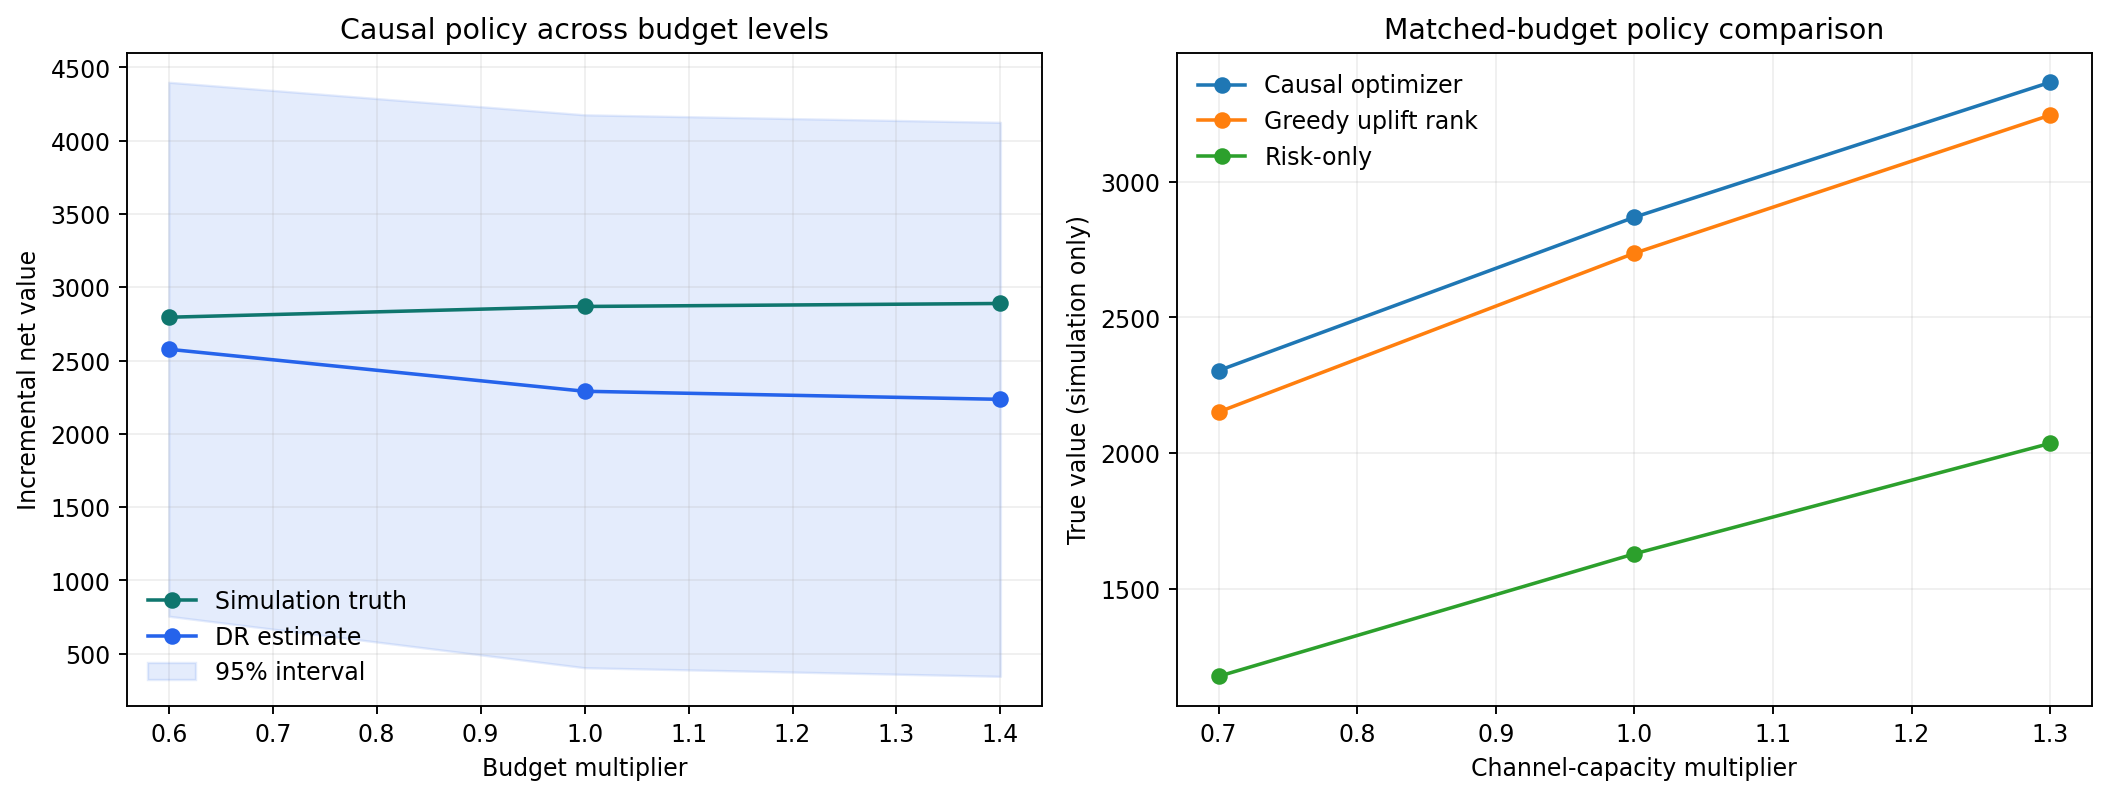
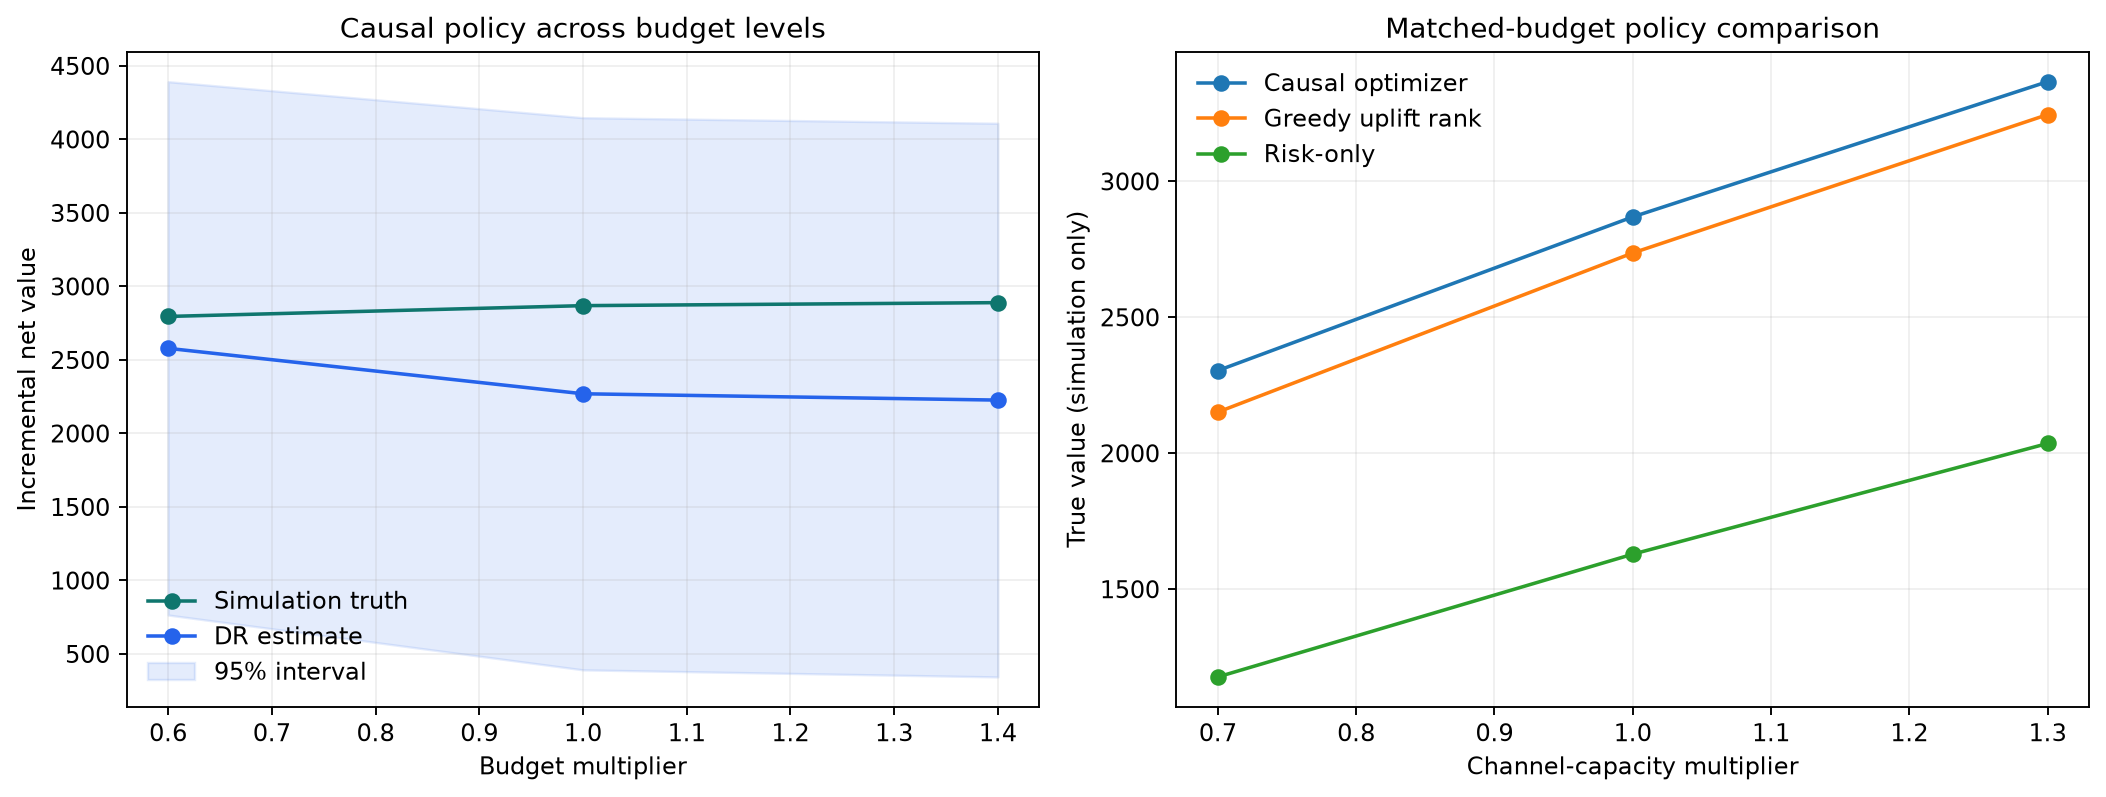
Pin reproducible retention evidence runs

diff --git a/tests/test_pipeline.py b/tests/test_pipeline.py
@@ -35,6 +35,15 @@ class PipelineTests(unittest.TestCase):
             self.assertTrue((root / "reports" / "figures" / "qini_curves.png").exists())
             self.assertTrue((root / "data" / "sample" / "synthetic_policy_sample.csv").exists())
 
+            with tempfile.TemporaryDirectory() as second_directory:
+                second_root = Path(second_directory)
+                second_metrics = run_pipeline(second_root, config)
+                self.assertEqual(metrics, second_metrics)
+                self.assertEqual(
+                    (root / "reports" / "model_comparison.csv").read_bytes(),
+                    (second_root / "reports" / "model_comparison.csv").read_bytes(),
+                )
+
 
 if __name__ == "__main__":
     unittest.main()

diff --git a/src/retention_uplift/cli.py b/src/retention_uplift/cli.py
@@ -15,7 +15,12 @@ def build_parser() -> argparse.ArgumentParser:
     parser = argparse.ArgumentParser(
         description="Run the synthetic retention pipeline or external Criteo validation."
     )
-    parser.add_argument("--project-root", type=Path, default=Path.cwd())
+    parser.add_argument(
+        "--project-root",
+        type=Path,
+        default=Path("local-runs/latest"),
+        help="Output root; defaults to an ignored local-run directory.",
+    )
     parser.add_argument("--customers", type=int, default=None)
     parser.add_argument("--seed", type=int, default=42)
     parser.add_argument(

diff --git a/scripts/check_sensitive.py b/scripts/check_sensitive.py
@@ -7,7 +7,7 @@ from pathlib import Path
 
 ROOT = Path(__file__).resolve().parents[1]
 TEXT_SUFFIXES = {".csv", ".json", ".md", ".py", ".toml", ".txt", ".yml", ".yaml"}
-EXCLUDED_PARTS = {".git", ".venv", "__pycache__", "generated"}
+EXCLUDED_PARTS = {".git", ".venv", "__pycache__", "generated", "local-runs"}
 EXCLUDED_FILES = {Path(__file__).resolve()}
 
 SENSITIVE_PATTERNS = {

diff --git a/README.md b/README.md
@@ -40,7 +40,7 @@ See the [external run summary](reports/external_validation/run_summary.md),
 |---|---|
 | **Who** | 727 of 2,943 test customers receive an active treatment after value and operating constraints are applied; 2,216 receive no treatment. |
 | **Which action** | 647 reminders, 56 vouchers, and 24 service calls. |
-| **Net value** | Doubly robust estimate: **2,291** with a **95% CI of 405 to 4,177**; simulation truth: **2,870**, or **76.2% above risk-only targeting**. |
+| **Net value** | Doubly robust estimate: **2,270** with a **95% CI of 392 to 4,148**; simulation truth: **2,870**, or **76.2% above risk-only targeting**. |
 
 The interval is positive but wide, so the estimate does not support automatic deployment. The
 candidate policy requires a prospective randomized test with the same cost and capacity rules.
@@ -51,12 +51,13 @@ candidate policy requires a prospective randomized test with the same cost and c
 
 ```bash
 python -m pip install -e ".[dev]"
-retention-uplift --project-root .
+retention-uplift --project-root local-runs/latest
 make check
 ```
 
-The run regenerates the synthetic experiment, policy outputs, diagnostics, and figures. Row-level
-data and hidden potential outcomes remain excluded from Git.
+The run regenerates the synthetic experiment, policy outputs, diagnostics, and figures under
+the ignored `local-runs/latest` directory. Row-level data and hidden potential outcomes remain
+excluded from Git.
 
 ### Reproduce the external validation
 
@@ -71,7 +72,7 @@ retention-uplift \
   --external-sample-size 300000 \
   --external-target-share 0.30 \
   --seed 42 \
-  --project-root .
+  --project-root local-runs/criteo
 ```
 
 The command verifies the exact official checksum and row count, validates the complete source,
@@ -130,9 +131,9 @@ it did not improve the decision metric.
 
 | Validation model | DR policy value | 95% interval | Selected |
 |---|---:|---:|:---:|
-| T-learner linear | 3,889 | 2,135 to 5,642 | Yes |
-| DR-learner hist | 2,569 | 406 to 4,733 | No |
-| T-learner hist | 1,862 | -214 to 3,938 | No |
+| T-learner linear | 3,911 | 2,135 to 5,688 | Yes |
+| DR-learner hist | 2,997 | 854 to 5,141 | No |
+| T-learner hist | 2,829 | 717 to 4,940 | No |
 
 ## From uplift scores to an operating policy
 

diff --git a/reports/run_summary.md b/reports/run_summary.md
@@ -18,8 +18,8 @@ validation period. The selected estimator was **T-learner linear**.
 
 The selected causal policy generated **2,870** synthetic
 currency units of true incremental net value. Its doubly robust estimate was
-**2,291**, with a 95% interval from
-**405** to **4,177**.
+**2,270**, with a 95% interval from
+**392** to **4,148**.
 
 Compared with risk-only targeting, the selected policy improved true incremental value by
 **76.2%**. Its regret versus the simulation-only oracle was
@@ -39,6 +39,6 @@ test, not a claim that historical estimates automatically transport to a new ope
 
 | model | validation_dr_value | validation_ci_low | validation_ci_high | mean_effect_rmse_simulation_only | selected |
 | --- | --- | --- | --- | --- | --- |
-| T-learner linear | 3888.662 | 2135.370 | 5641.953 | 1.673 | True |
-| DR-learner hist | 2569.410 | 406.313 | 4732.507 | 2.803 | False |
-| T-learner hist | 1862.299 | -213.681 | 3938.279 | 3.724 | False |
+| T-learner linear | 3911.476 | 2134.996 | 5687.956 | 1.673 | True |
+| DR-learner hist | 2997.256 | 853.836 | 5140.676 | 2.727 | False |
+| T-learner hist | 2828.555 | 716.878 | 4940.233 | 3.726 | False |
